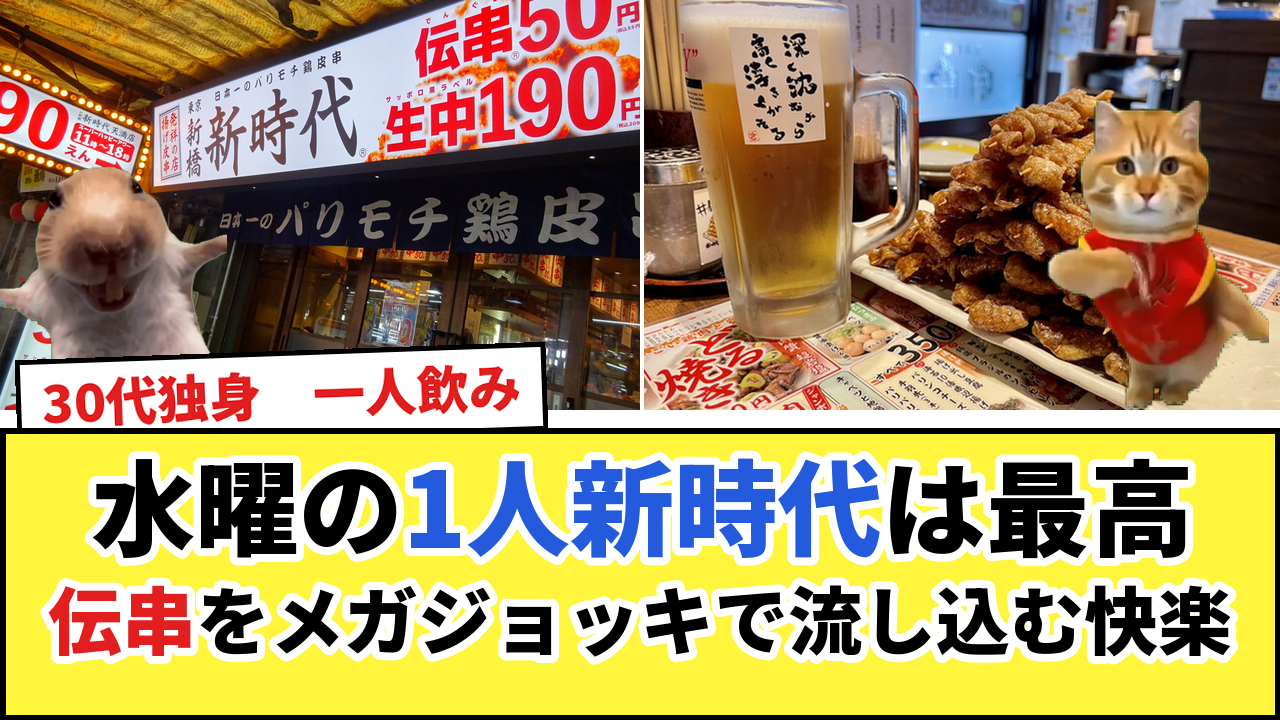
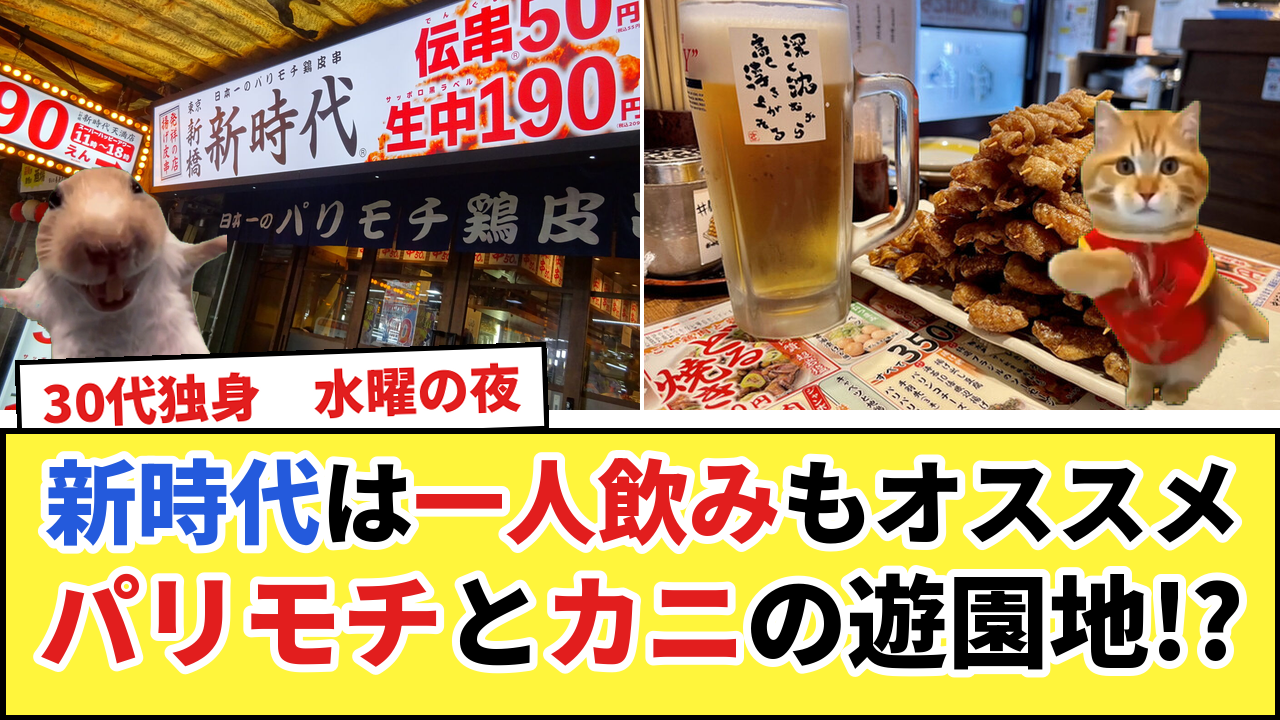
新時代：サムネの文字を変更（一人飲みもオススメ／パリモチとカニの遊園地!?）
Claude-Session: https://claude.ai/code/session_011g9CsrfFD5YswfNSvNDW39

Changed region(s): [[0.0312, 0.6111, 1.0, 0.9472], [0.25, 0.4889, 0.4062, 0.5806]]

diff --git a/catmeme/make_thumb_shinjidai.py b/catmeme/make_thumb_shinjidai.py
@@ -1,7 +1,7 @@
 """自堕落シリーズ #10 新時代のサムネ（11/6 ユーザー指定：いつものAパターン）。
 
 python3 catmeme/make_thumb_shinjidai.py → thumbs/jidaraku_10_shinjidai_thumb_a.png
-左：夜の外観・右：伝串と生ビール。札：30代独身 一人飲み。字幕：水曜の1人新時代は最高／伝串をメガジョッキで流し込む快楽
+左：夜の外観・右：伝串と生ビール。札：30代独身 水曜の夜。字幕（11/6 ユーザー指定）：新時代は一人飲みもオススメ／パリモチとカニの遊園地!?
 """
 import os
 
@@ -17,9 +17,9 @@ def main():
     T.type_a("jidaraku_10_shinjidai_thumb_a.png", "n01_front", "f_denkushi",
              ("happy_hamster_open_arms", 1.0, 110, 410, 250, False),
              [("excited_hodomoe_city_cat", 1.0, 1150, 410, 320, False)],
-             "30代独身　一人飲み",
-             [("水曜の", BK), ("1人新時代", T.BLUE), ("は最高", BK)],
-             [("伝串", R), ("をメガジョッキで流し込む快楽", BK)], split=640, size=104)
+             "30代独身　水曜の夜",
+             [("新時代", T.BLUE), ("は", BK), ("一人飲み", R), ("もオススメ", BK)],
+             [("パリモチ", R), ("と", BK), ("カニ", R), ("の遊園地!?", BK)], split=640, size=104)
 
 
 if __name__ == "__main__":
